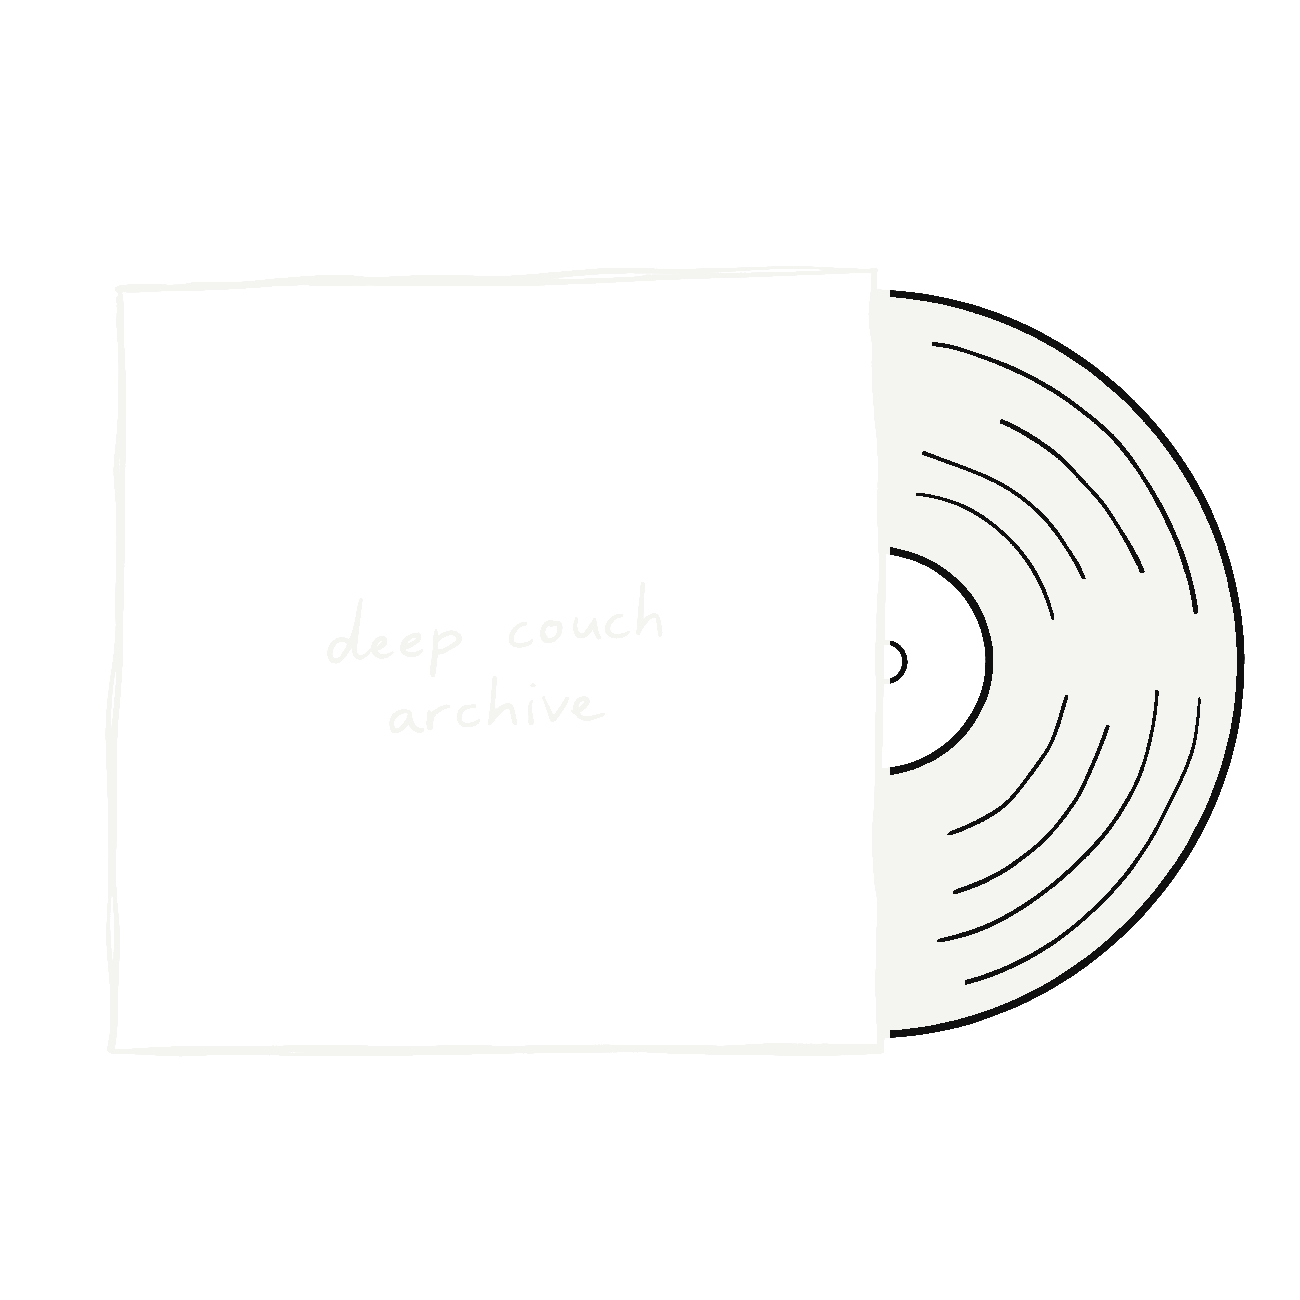
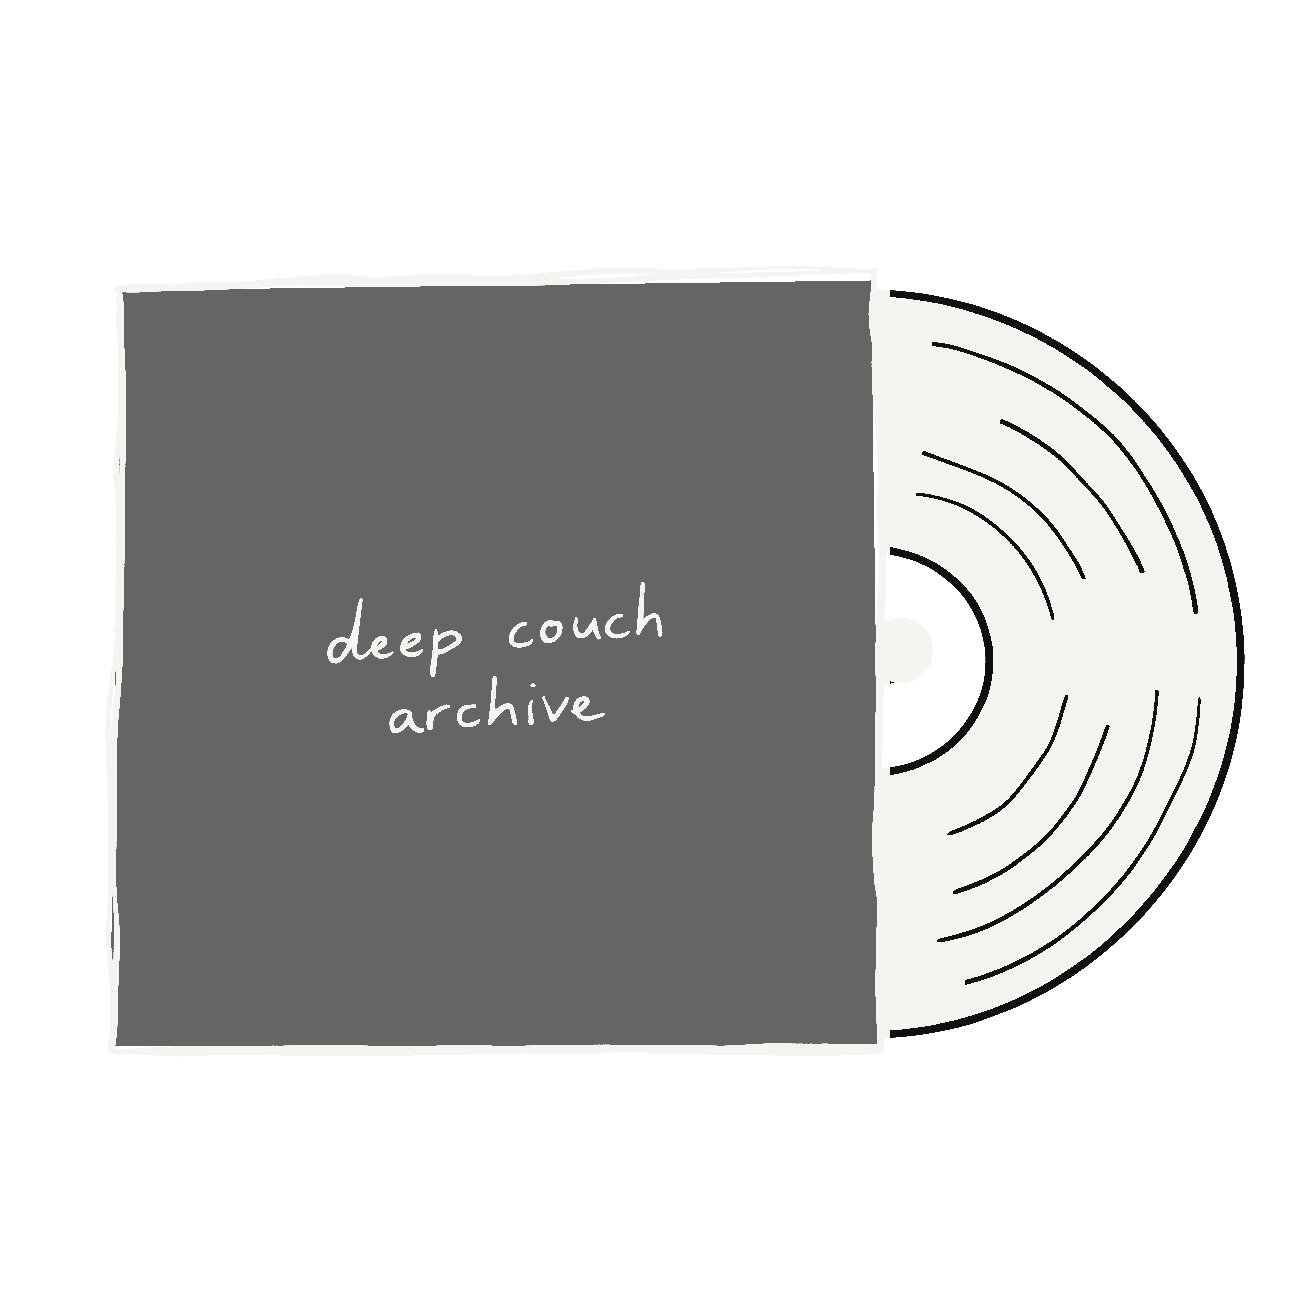
fix(home): align dark LP cover surface

diff --git a/api/home-navigation.test.js b/api/home-navigation.test.js
@@ -35,6 +35,7 @@ test("home navigation keeps the lower menu in three clear groups", () => {
   assert.match(html, /\[data-theme="dark"\] \.home-landing__art--dark \{\s*display: block;/);
   assert.match(html, /\.home-landing__media img \{[\s\S]*?background: transparent;/);
   assert.match(html, /@media \(max-width: 768px\) \{[\s\S]*?body\.is-home-view \.site-nav \{[\s\S]*?display: flex;/);
+  assert.match(html, /body\.is-home-view \.site-nav__link,\n\s+body\.is-home-view \.site-nav__link:hover,\n\s+body\.is-home-view \.site-nav__link\[aria-current="page"\] \{\n\s+min-height: 26px;\n\s+padding: 0;\n\s+white-space: nowrap;/);
   assert.match(html, /\[data-theme="light"\] \{[\s\S]*?--home-canvas: #FAF9F7;/);
   assert.doesNotMatch(html, /id="headerSearchInput"/);
   assert.doesNotMatch(html, /id="themeLabel"/);
@@ -50,6 +51,19 @@ from PIL import Image
 image = Image.open("assets/illustrations/vinyl-dca-home-dark.png").convert("RGBA")
 red, green, blue, alpha = image.getpixel((500, 280))
 assert alpha > 0 and min(red, green, blue) >= 230, (red, green, blue, alpha)
+`;
+
+  assert.doesNotThrow(() => {
+    childProcess.execFileSync("python3", ["-c", script], { cwd: path.join(__dirname, "..") });
+  });
+});
+
+test("dark Home LP uses the operational-index gray cover and a visible record center", () => {
+  const script = `
+from PIL import Image
+image = Image.open("assets/illustrations/vinyl-dca-home-dark.png").convert("RGBA")
+assert image.getpixel((500, 500)) == (101, 101, 101, 255), image.getpixel((500, 500))
+assert image.getpixel((900, 650))[:3] == (244, 244, 241), image.getpixel((900, 650))
 `;
 
   assert.doesNotThrow(() => {

diff --git a/index.html b/index.html
@@ -3248,6 +3248,7 @@
       body.is-home-view .site-nav__link[aria-current="page"] {
         min-height: 26px;
         padding: 0;
+        white-space: nowrap;
         border: 0;
         color: var(--text-secondary);
         background: transparent;